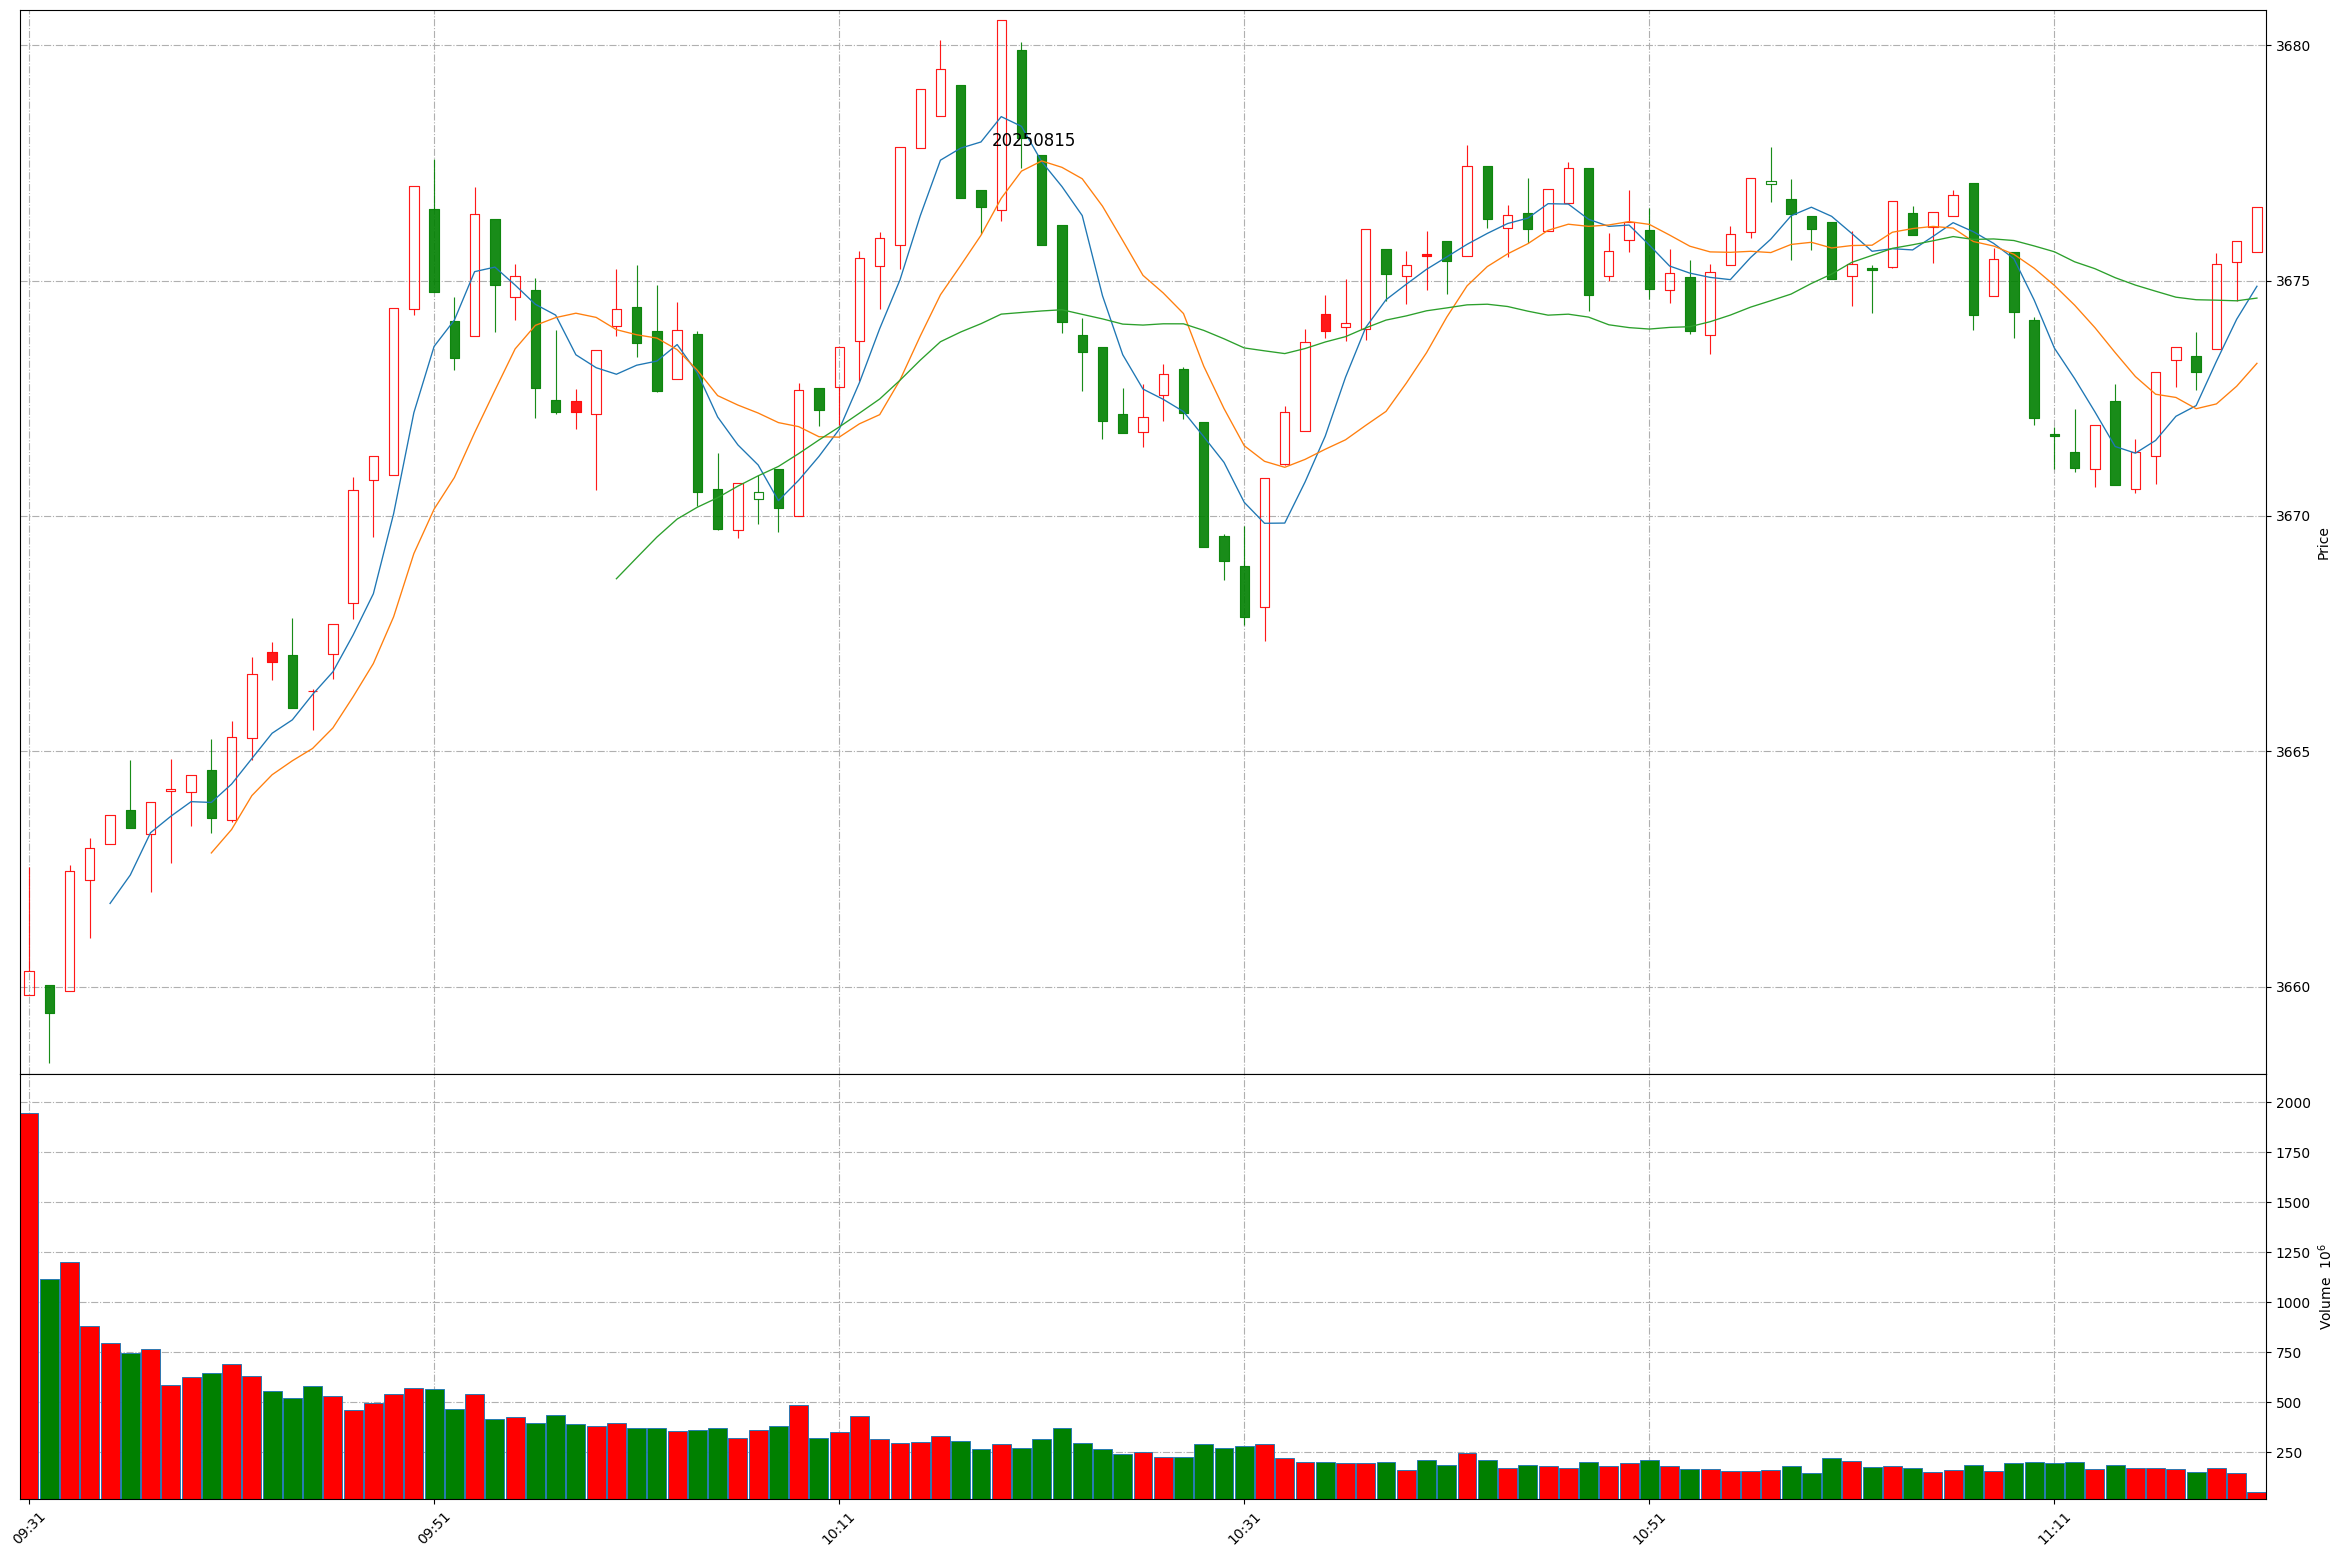
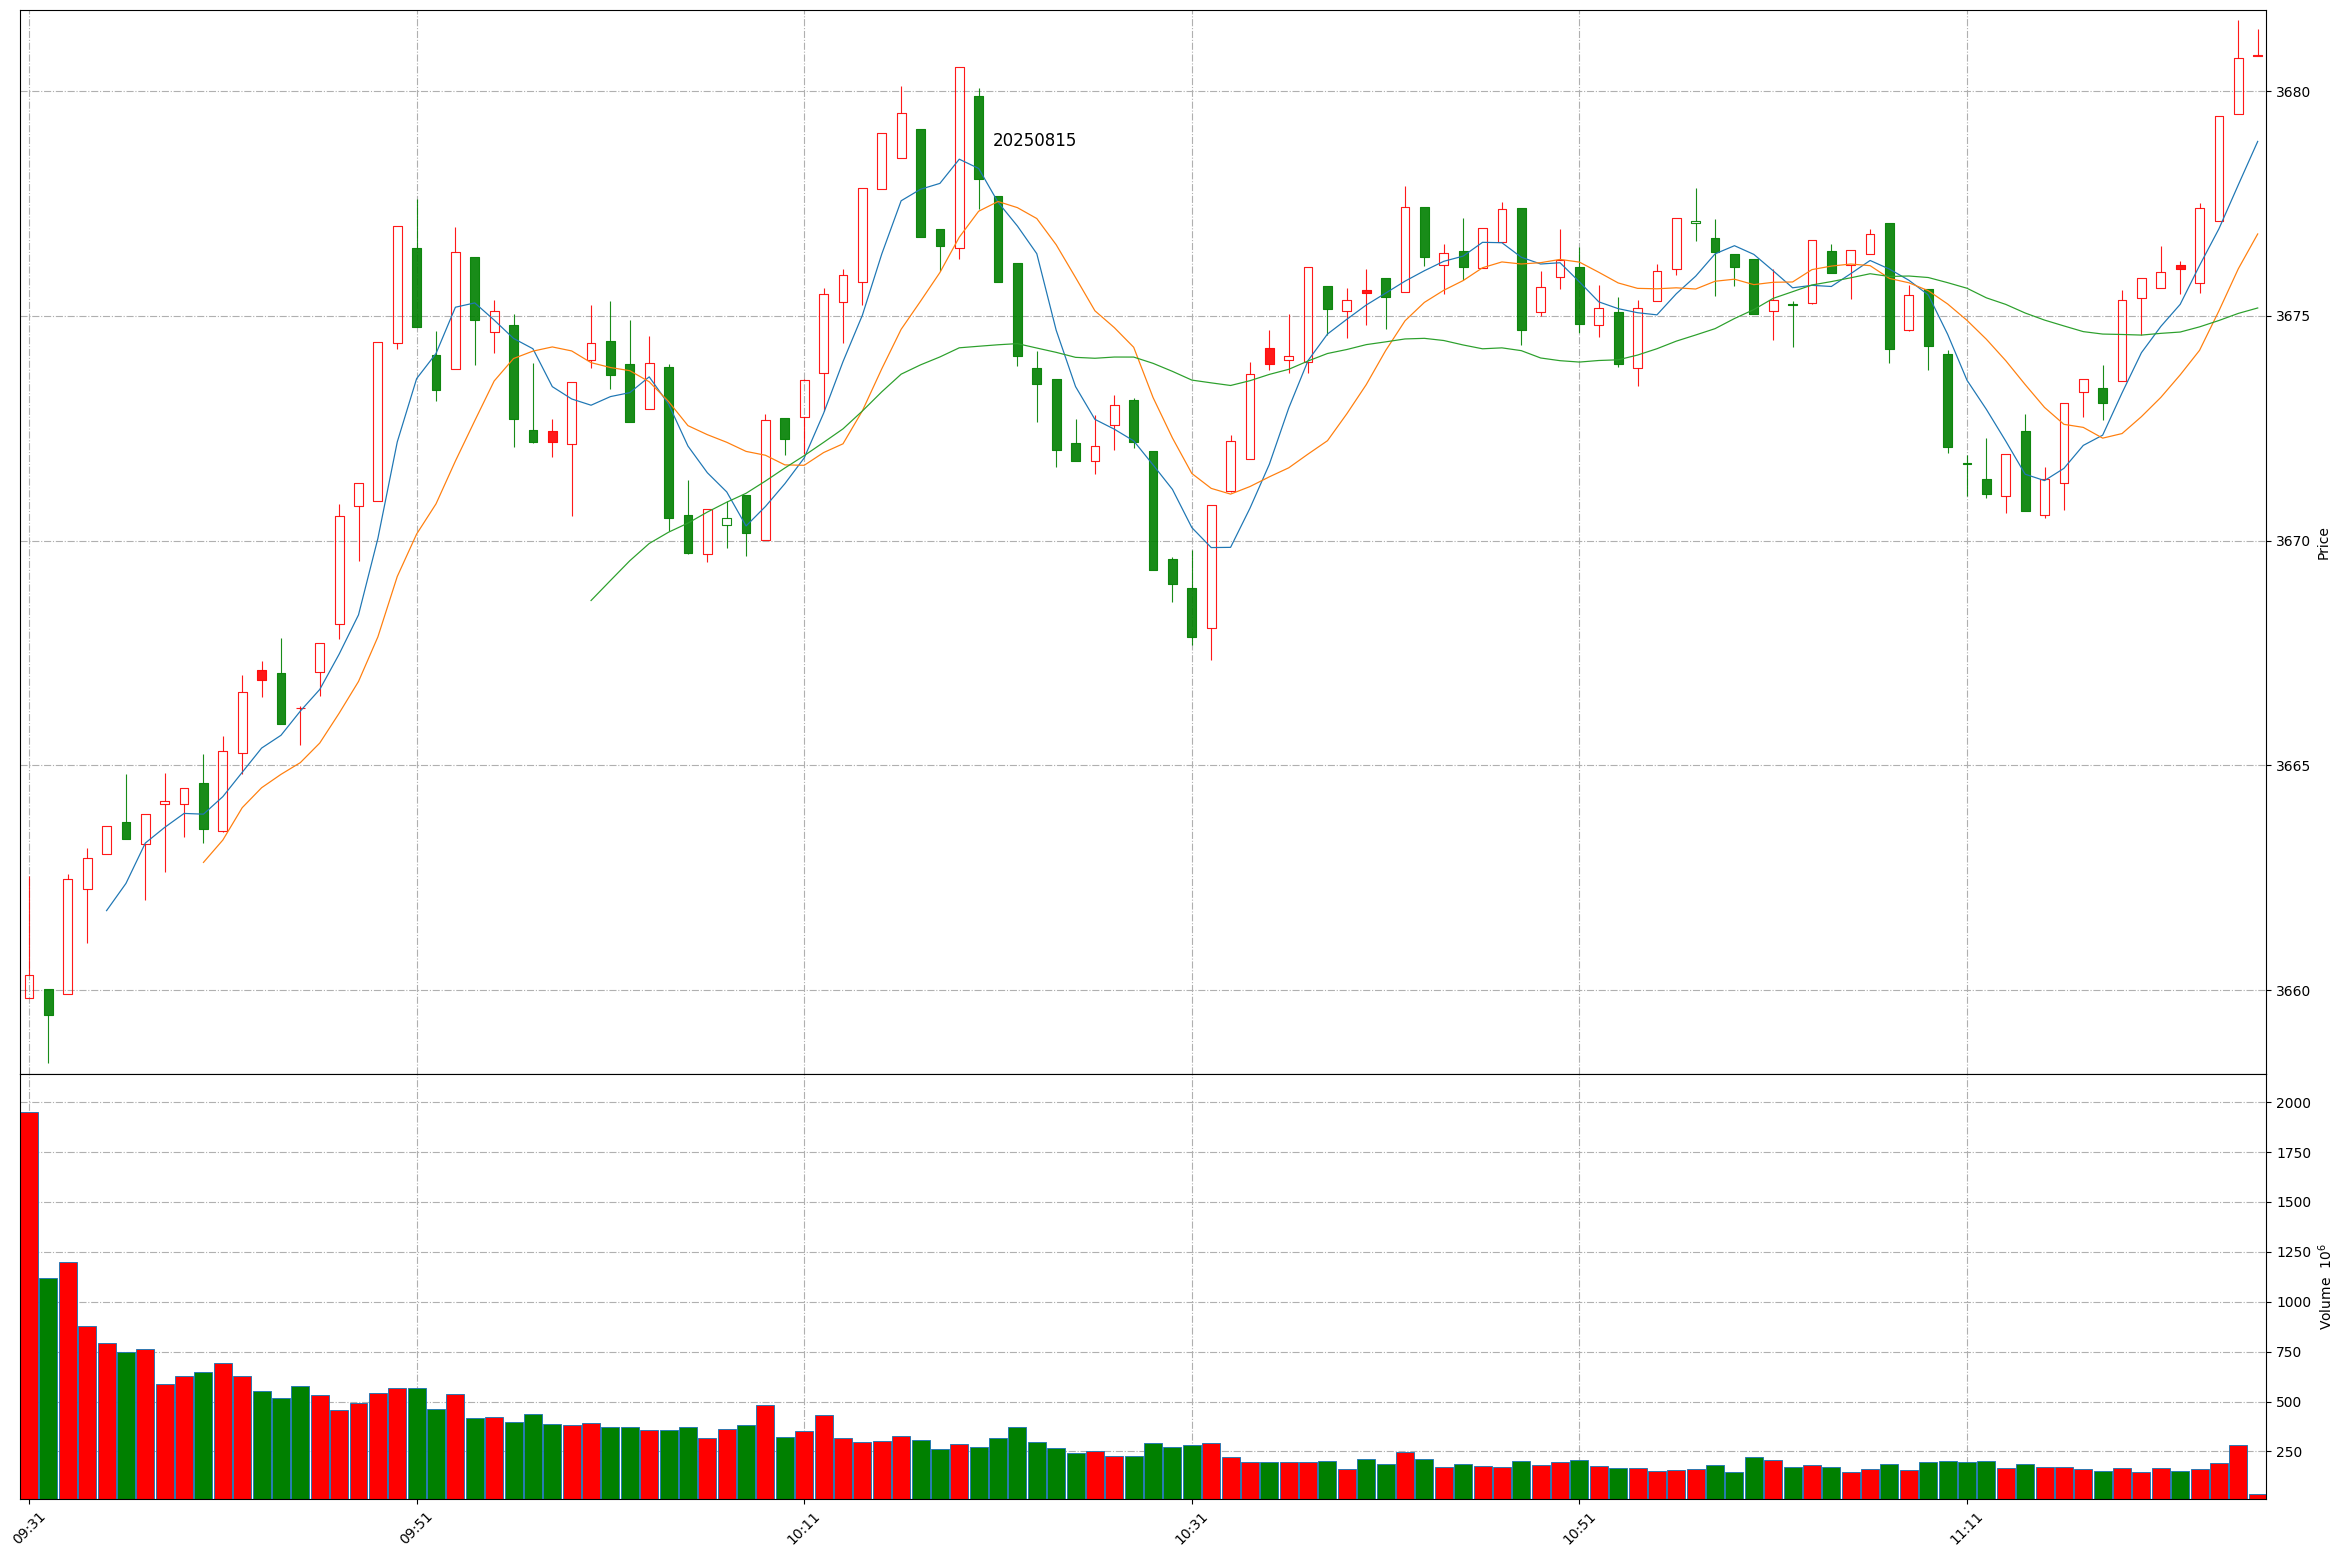
Github action update at 2025-08-15 11:25:32.

diff --git a/README.md b/README.md
@@ -1,11 +1,11 @@
 
 # Daily-A-share-market-quotes 每日 A 股指数（5min 更新）- 20250815
 
-### 上证指数 20250815 11:20
+### 上证指数 20250815 11:25
 ![](./fig/2025/8/20250815-sh000001.png)
 
-### 深证成指 20250815 11:20
+### 深证成指 20250815 11:25
 ![](./fig/2025/8/20250815-sz399001.png)
 
-### 北证50 20250815 11:20
+### 北证50 20250815 11:25
 ![](./fig/2025/8/20250815-bj899050.png)
